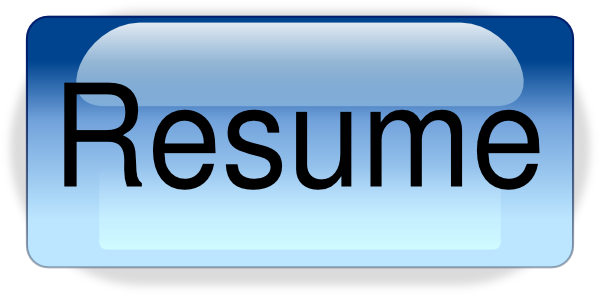
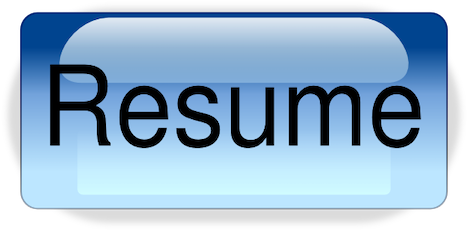
Playing around with image size

diff --git a/index.html b/index.html
@@ -71,7 +71,7 @@
 							</div>
 						</section>
 						<section id = "resume">
-							<a href="#" class="image"><img src="images/ResumeImage.png" width = "100%" height = "100%" alt="" data-position="25% 25%" /></a>
+							<a href="#" class="image"><img src="images/ResumeImage.png" width = "10%" height = "10%" alt="" data-position="25% 25%" /></a>
 							<div class="content">
 								<div class="inner">
 									<h2>Resume</h2>
